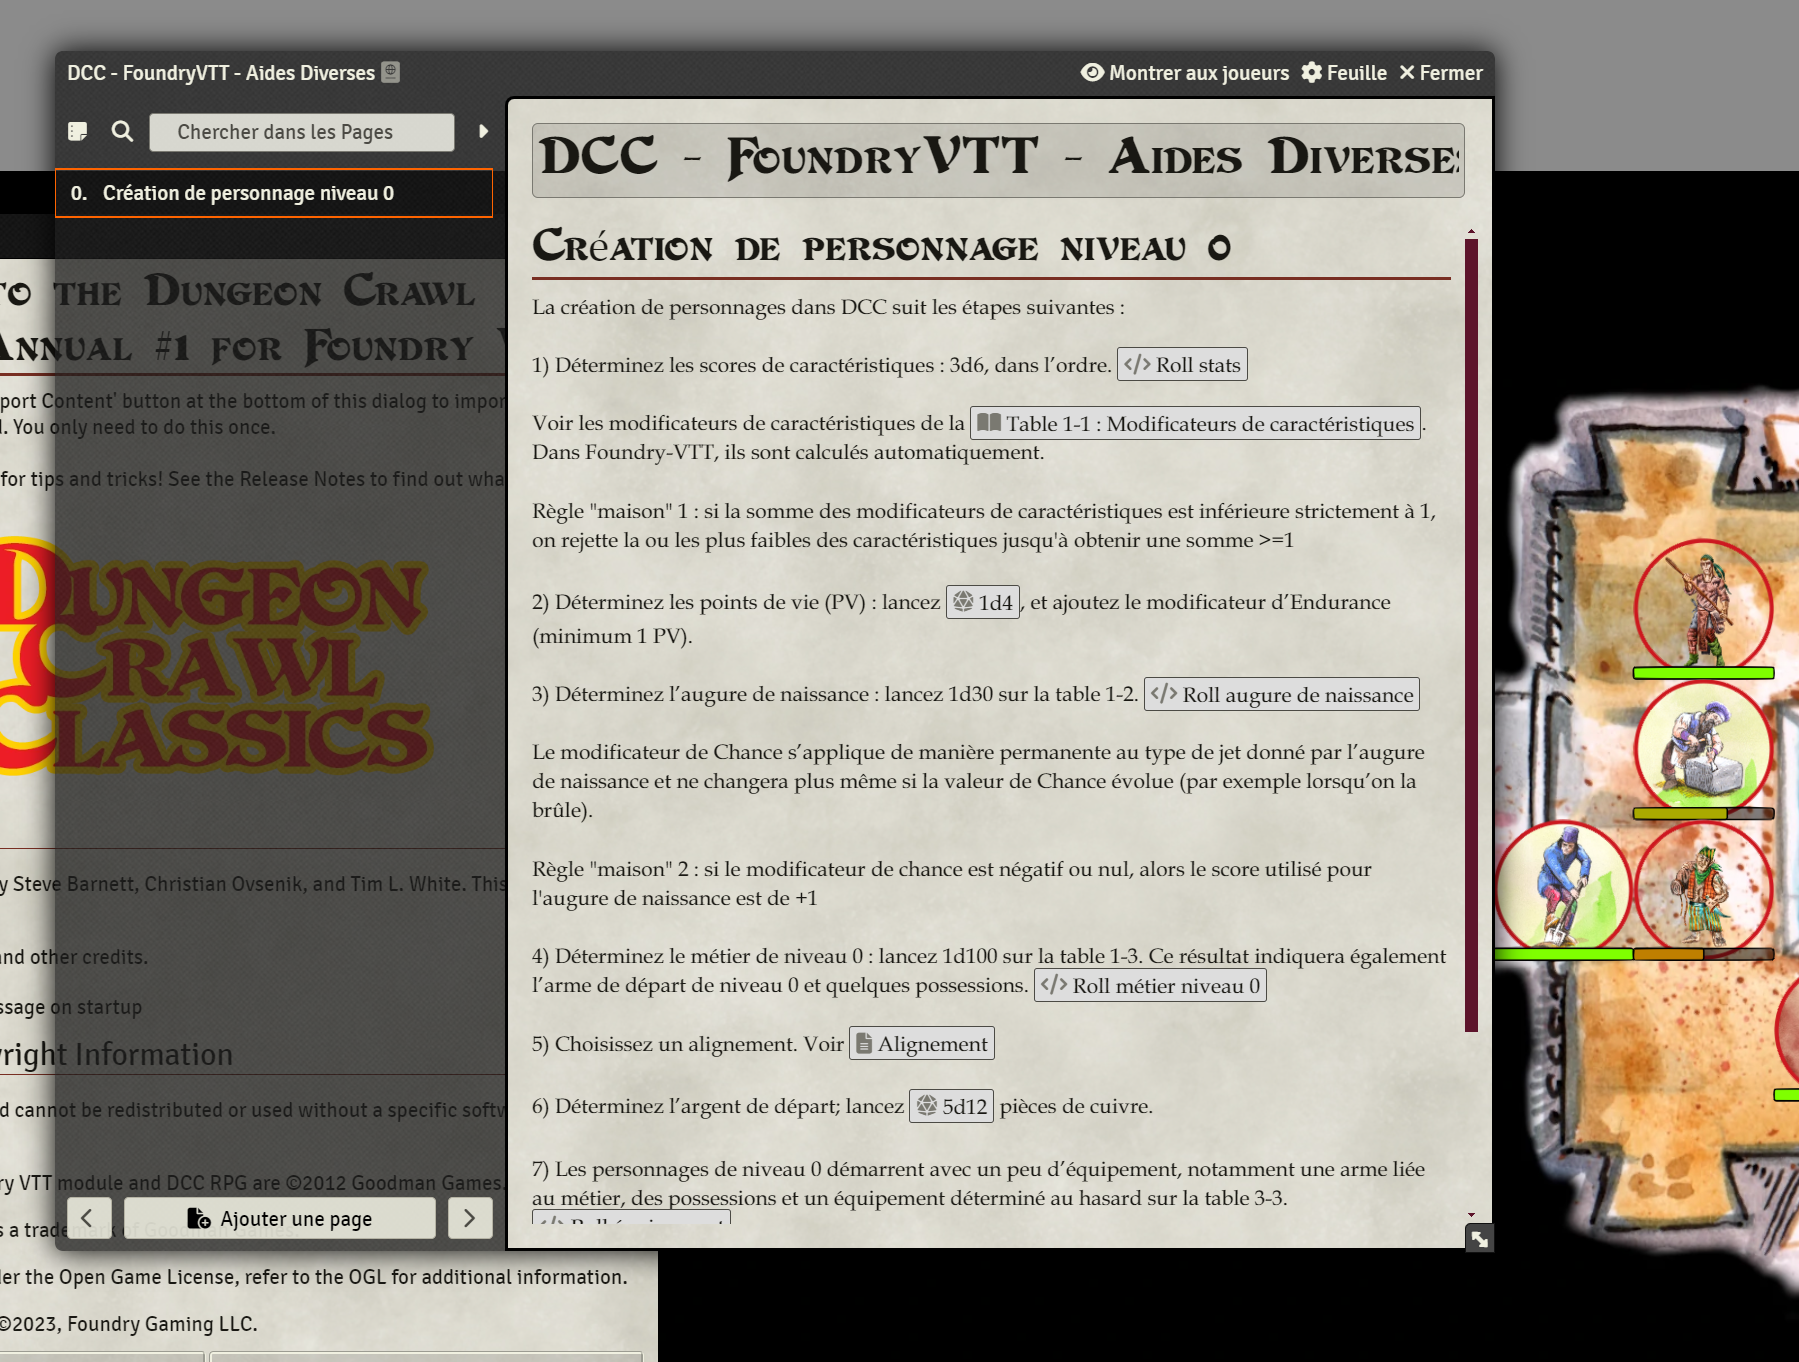
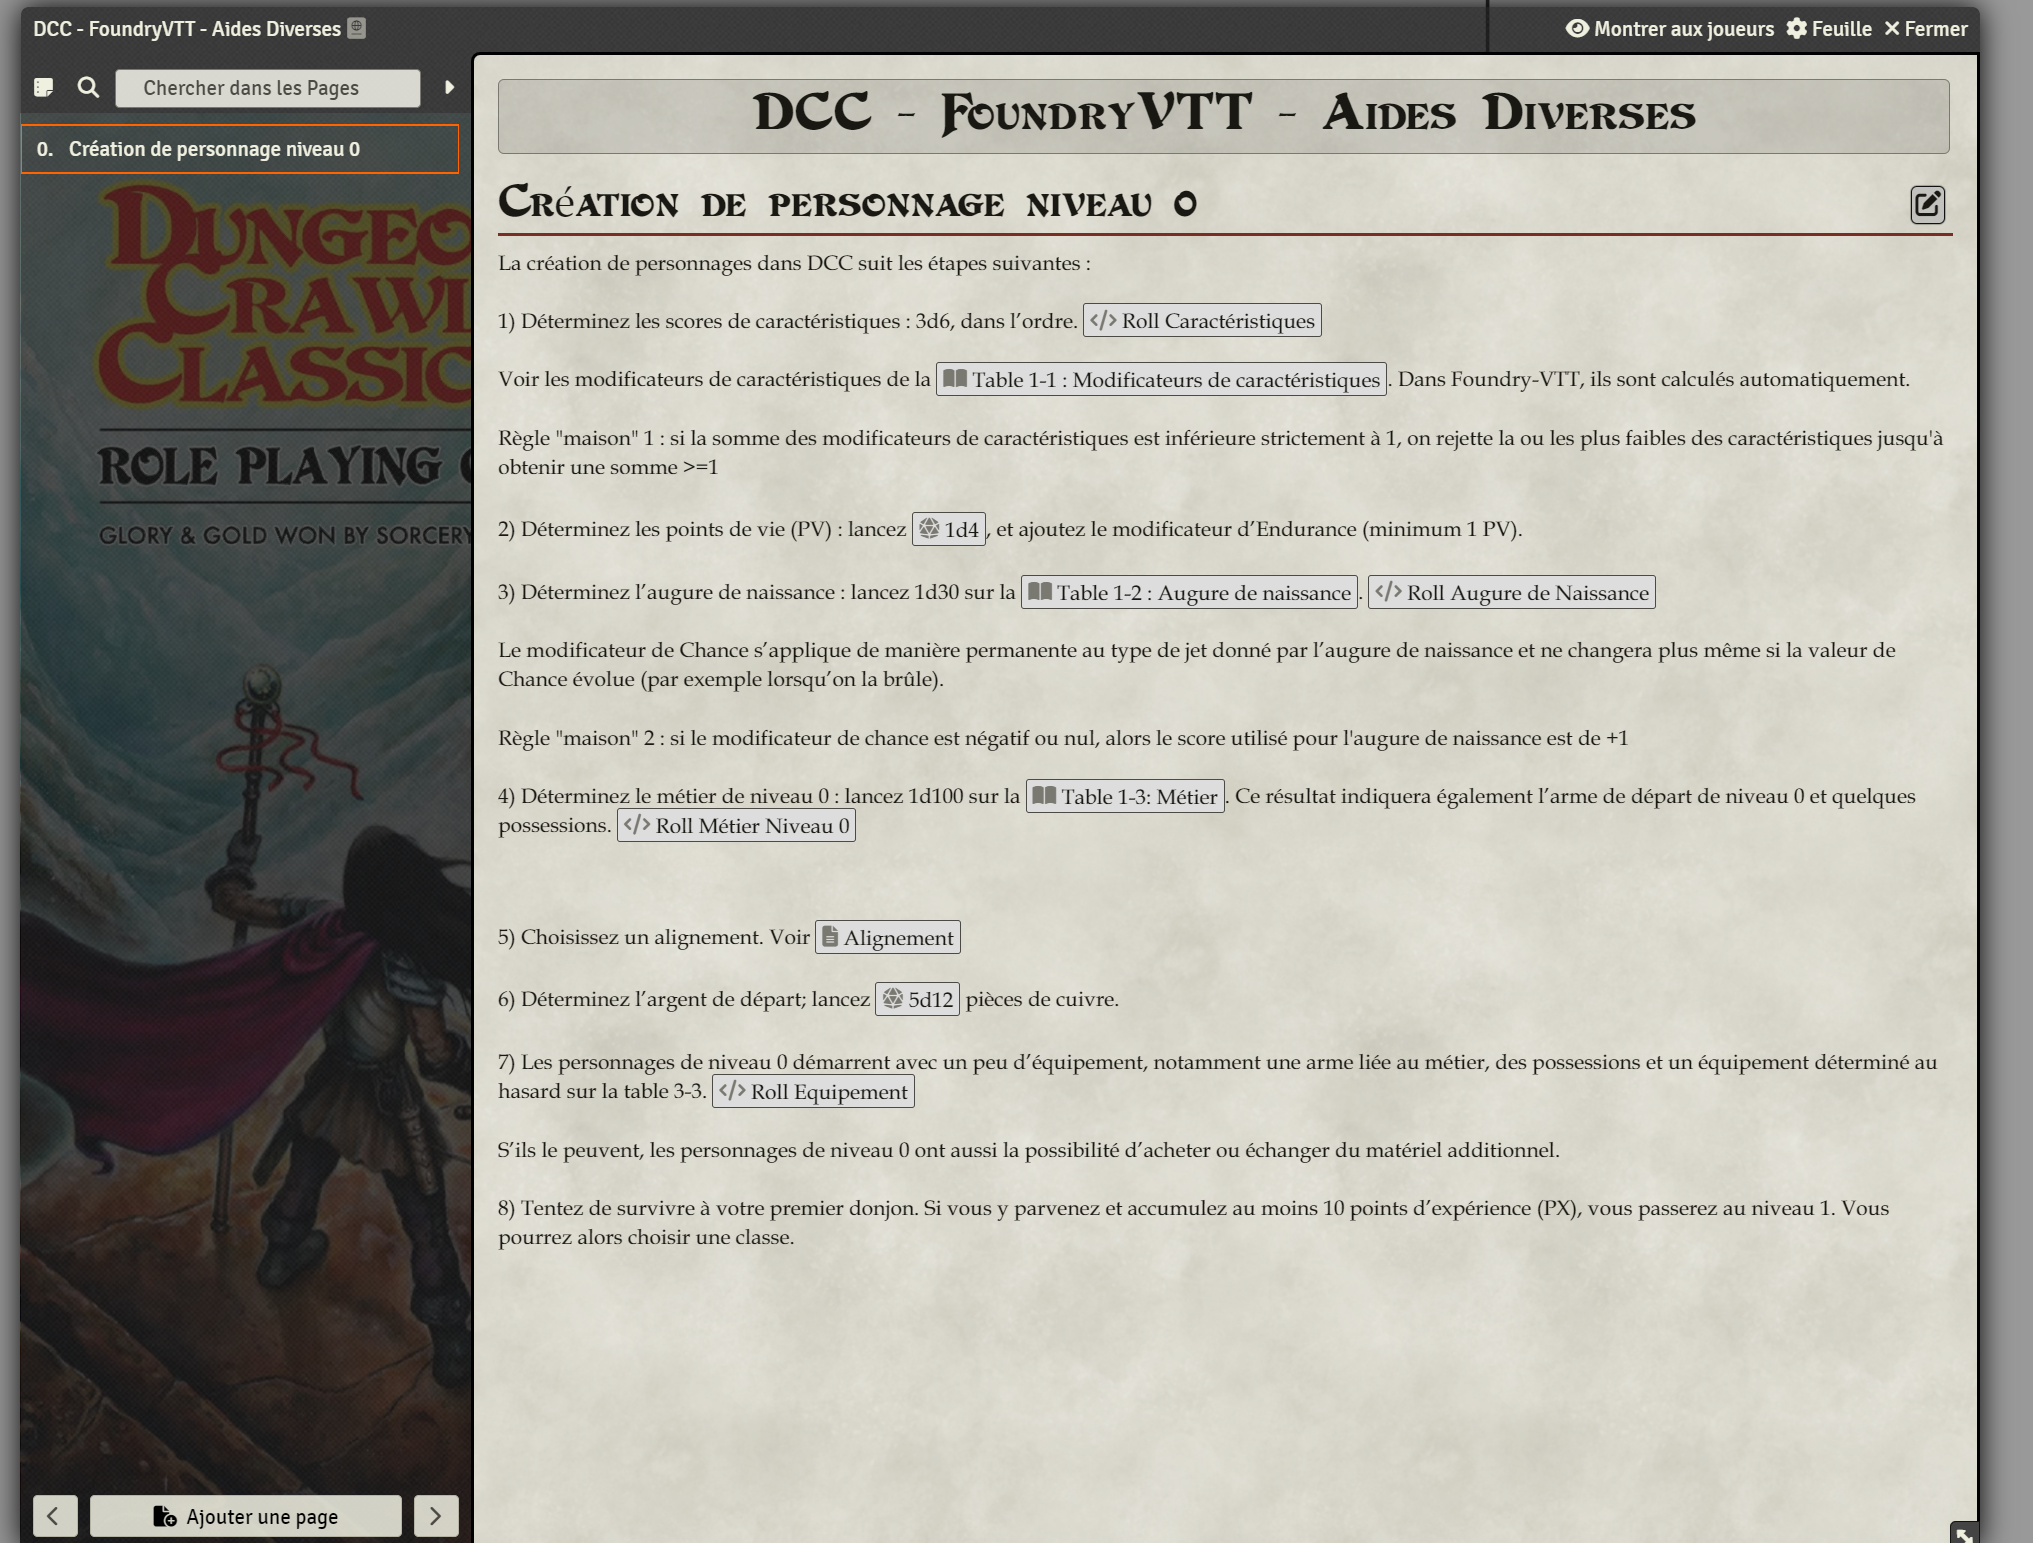
Update README and JavaScript files for level 0 character creation; adjust UUIDs for roll tables and macros

diff --git a/create_0lvl_character/create_0lvl_character.html b/create_0lvl_character/create_0lvl_character.html
@@ -1,24 +1,33 @@
+<!-- Remplacer les uuid de macro de Compendium.ludorg-shared-compendia.dcc-macros.Macro par les votres -->
 <p>La création de personnages dans DCC suit les étapes suivantes :</p>
-<p>1) Déterminez les scores de caractéristiques : 3d6, dans l’ordre. @UUID[Macro.srvsAY0gmUdOIDsz]{Roll stats}</p>
-<p>Voir les modificateurs de caractéristiques de la @UUID[JournalEntry.CanXAvAEczYpfPhY]{Table 1-1 : Modificateurs de
+<p>1) Déterminez les scores de caractéristiques : 3d6, dans l’ordre.
+    @UUID[Compendium.ludorg-shared-compendia.dcc-macros.Macro.y0DEwt9RQJVpDg3x]{Roll Caractéristiques}</p>
+<p>Voir les modificateurs de caractéristiques de la
+    @UUID[Compendium.dcc-core-book.dcc-core-journals.JournalEntry.asPqbB1GReVk8eCp]{Table 1-1 : Modificateurs de
     caractéristiques}. Dans Foundry-VTT, ils sont calculés automatiquement.</p>
 <p>Règle "maison" 1 : si la somme des modificateurs de caractéristiques est inférieure strictement à 1, on rejette la ou
     les plus faibles des caractéristiques jusqu'à obtenir une somme &gt;=1</p>
 <p>2) Déterminez les points de vie (PV) : lancez [[/roll 1d4]], et ajoutez le modificateur d’Endurance (minimum 1 PV).
 </p>
-<p>3) Déterminez l’augure de naissance : lancez 1d30 sur la table 1-2. @UUID[Macro.EAKp51zhKypu51Xj]{Roll augure de
-    naissance}</p>
+<p>3) Déterminez l’augure de naissance : lancez 1d30 sur la
+    @Compendium[dcc-core-book.dcc-core-journals.5thhXbAPAicMkJY3].
+    @UUID[Compendium.ludorg-shared-compendia.dcc-macros.Macro.Eg0VrC4Zjzodwwur]{Roll Augure de Naissance}</p>
 <p>Le modificateur de Chance s’applique de manière permanente au type de jet donné par l’augure de naissance et ne
     changera plus même si la valeur de Chance évolue (par exemple lorsqu’on la brûle).</p>
 <p>Règle "maison" 2 : si le modificateur de chance est négatif ou nul, alors le score utilisé pour l'augure de naissance
     est de +1</p>
-<p>4) Déterminez le métier de niveau 0 : lancez 1d100 sur la table 1-3. Ce résultat indiquera également l’arme de départ
-    de niveau 0 et quelques possessions. @UUID[Macro.3c67awEgaWhYuOZy]{Roll métier niveau 0}</p>
+<p>4) Déterminez le métier de niveau 0 : lancez 1d100 sur la
+    @UUID[Compendium.dcc-core-book.dcc-core-journals.JournalEntry.oos3Tf2YeajWrhVt]{Table 1-3: Métier}. Ce résultat
+    indiquera également l’arme de départ de niveau 0 et quelques possessions.
+    @UUID[Compendium.ludorg-shared-compendia.dcc-macros.Macro.Tkae3jxXNTEQfM3w]{Roll Métier Niveau 0}</p>
+<p></p>
 <p>5) Choisissez un alignement. Voir
-    @UUID[JournalEntry.L6xPHzf9kG6WXxIv.JournalEntryPage.ctoqgcGGFYJF2945#alignement]{Alignement}</p>
+    @UUID[Compendium.dcc-core-book.dcc-core-text.JournalEntry.4NtBrLegp6tg6oM7.JournalEntryPage.ctoqgcGGFYJF2945#alignement]{Alignement}
+</p>
 <p>6) Déterminez l’argent de départ; lancez [[/roll 5d12]] pièces de cuivre.</p>
 <p>7) Les personnages de niveau 0 démarrent avec un peu d’équipement, notamment une arme liée au métier, des possessions
-    et un équipement déterminé au hasard sur la table 3-3. @UUID[Macro.gj3xbgmnRItOEST5]{Roll équipement}</p>
+    et un équipement déterminé au hasard sur la table 3-3.
+    @UUID[Compendium.ludorg-shared-compendia.dcc-macros.Macro.AwzIyZQ3APFYG2lq]{Roll Equipement}</p>
 <p>S’ils le peuvent, les personnages de niveau 0 ont aussi la possibilité d’acheter ou échanger du matériel additionnel.
 </p>
 <p>8) Tentez de survivre à votre premier donjon. Si vous y parvenez et accumulez au moins 10 points d’expérience (PX),

diff --git a/create_0lvl_character/roll_metier_niv0.js b/create_0lvl_character/roll_metier_niv0.js
@@ -1,2 +1,2 @@
-const table = await fromUuid("RollTable.ThwUQddwtTuoAKPJ"); // Remplacer l'id par celui de la table Roll Table 1-3
+const table = await fromUuid("Compendium.dcc-core-book.dcc-core-tables.RollTable.IBItVdgxVHXSQoSY"); // Remplacer l'id par celui de la table Roll Table 1-3
 await table.draw();

diff --git a/create_0lvl_character/roll_equipement.js b/create_0lvl_character/roll_equipement.js
@@ -1,2 +1,2 @@
-const table = await fromUuid("RollTable.eGNdW1OcqYf90T7O"); // Remplacer par l'id de la table 3-4 (avec Roll Table)
+const table = await fromUuid("Compendium.dcc-core-book.dcc-core-tables.RollTable.YJ431HD4a04UBvzi");
 await table.draw();

diff --git a/create_0lvl_character/roll_augure_de_naissance.js b/create_0lvl_character/roll_augure_de_naissance.js
@@ -1,2 +1,2 @@
-const table = await fromUuid("RollTable.1krl23yaXiDLudJG"); // remplacer par l'id de la table 1-2
+const table = await fromUuid("Compendium.dcc-core-book.dcc-core-tables.RollTable.rf8qSPFamqmB5eQo");
 await table.draw();

diff --git a/create_0lvl_character/README.md b/create_0lvl_character/README.md
@@ -4,7 +4,7 @@
 
 ![journal](./journal.png)
 
-- Créez les macros et adaptez les identifiants des tables "Roll Table".
+- Créez les macros et adaptez les identifiants des tables "Roll Table". Ces macros peuvent être créées dans votre propre Compendium ([shared compendium](https://youtu.be/RaRtUkNdoig?si=fskRGR87xM_5feRE)) :
     - Roll stats
     - Roll augure de naissance
     - Roll métier niveau 0
@@ -12,5 +12,5 @@
 
 ![roll tables](./roll_table_0lvl.png)
 
-- Adapter les identifiants des macros dans le code HTML.
+- Adapter les identifiants des macros dans le code HTML. Remplacer les uuid de macro de Compendium.ludorg-shared-compendia.dcc-macros.Macro par les vôtres.
 
